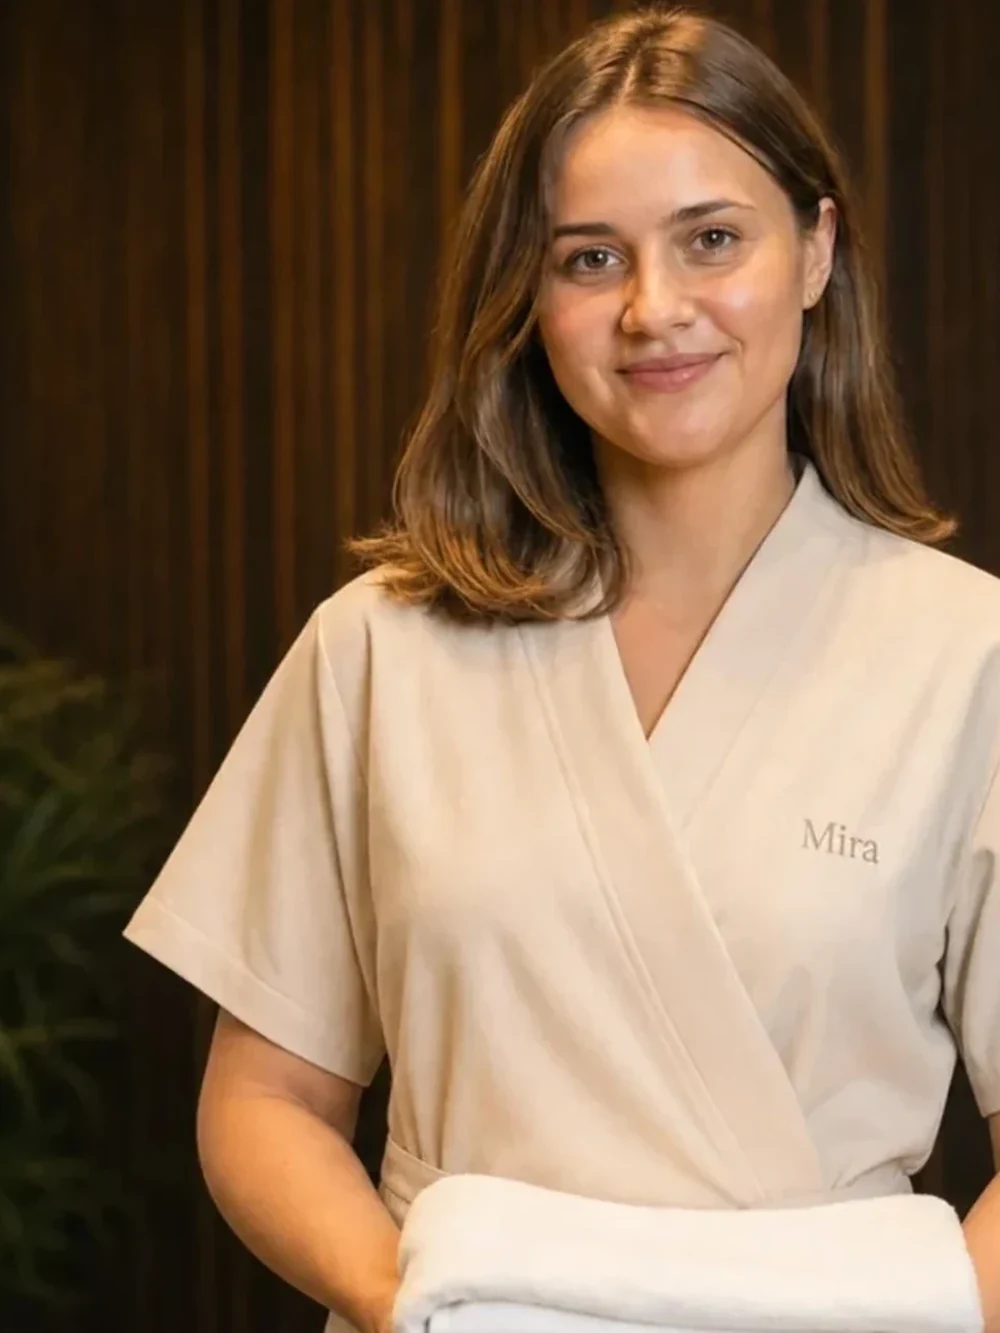
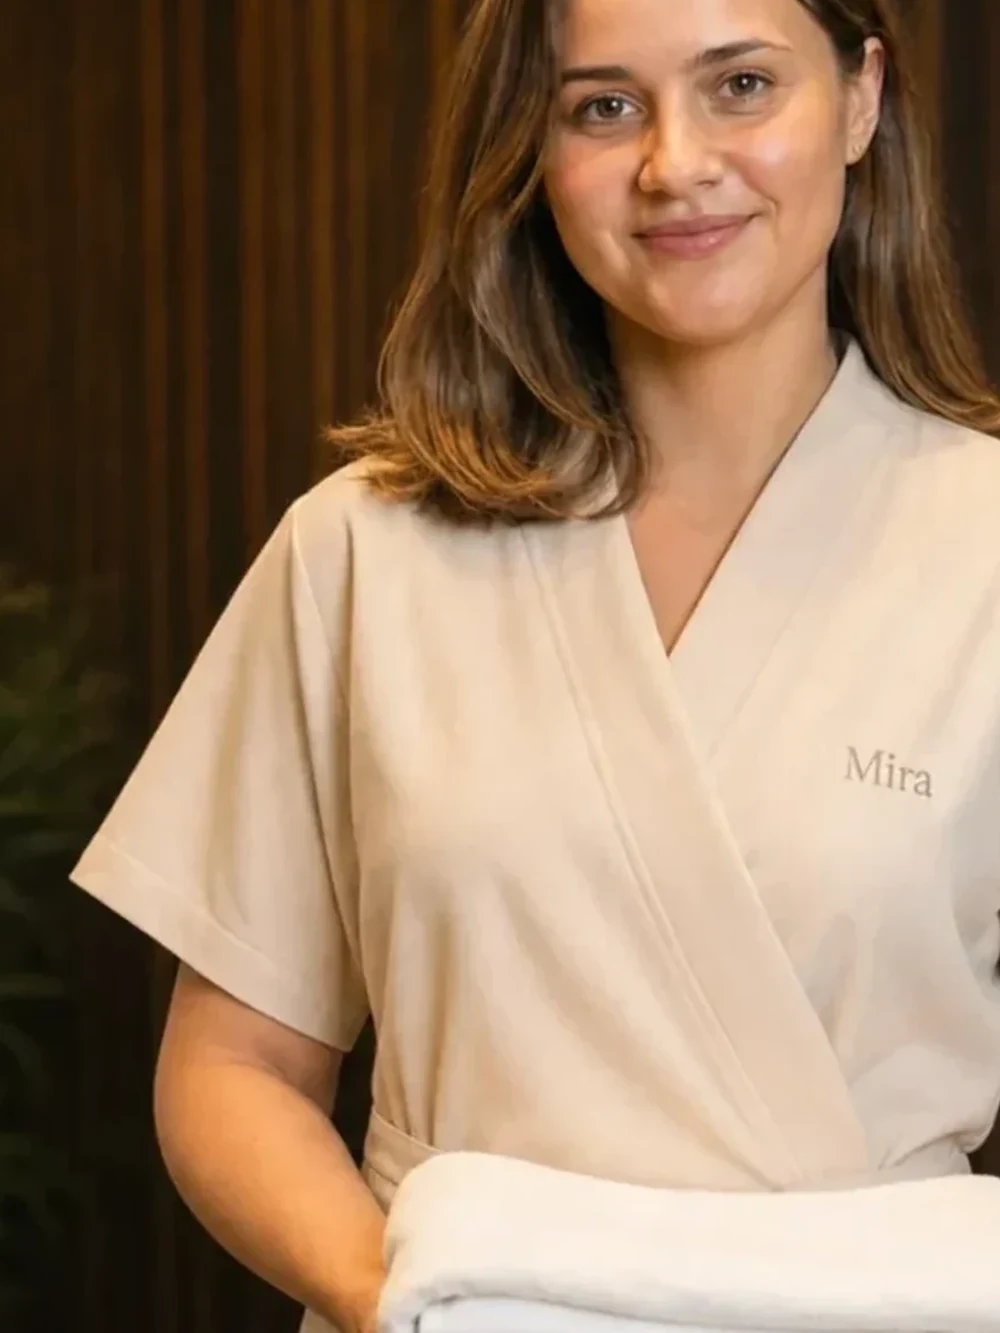
1

diff --git a/static/css/gallery.css b/static/css/gallery.css
@@ -20,8 +20,9 @@
 
 .media-gallery--card-team .media-gallery__img:not(.media-gallery__img--blur),
 .media-gallery--card-service .media-gallery__img:not(.media-gallery__img--blur) {
-  object-position: center top;
-  transform-origin: center top;
+  object-position: center 12%;
+  transform: scale(1.06);
+  transform-origin: center 12%;
 }
 
 .media-gallery--card-team::after {
@@ -175,7 +176,7 @@
   display: inline-flex;
   align-items: center;
   justify-content: center;
-  color: rgba(201, 169, 138, 0.35);
+  color: rgba(14, 12, 18, 0.48);
   outline: none;
   -webkit-tap-highlight-color: transparent;
   transition: color 0.3s ease;
@@ -188,6 +189,7 @@
   border-radius: 50%;
   background: currentColor;
   pointer-events: none;
+  box-shadow: 0 0 0 1px rgba(255, 255, 255, 0.42);
   transition:
     width 0.3s ease,
     height 0.3s ease,
@@ -195,33 +197,47 @@
 }
 
 .media-gallery__dot.is-active {
-  color: var(--color-gold);
+  color: rgba(8, 7, 12, 0.9);
 }
 
 .media-gallery__dot.is-active::after {
   width: 9px;
   height: 9px;
-  box-shadow: 0 0 10px rgba(201, 169, 138, 0.5);
+  box-shadow:
+    0 0 0 1.5px rgba(255, 255, 255, 0.58),
+    0 2px 8px rgba(0, 0, 0, 0.38);
 }
 
 .media-gallery--card-team .media-gallery__dot,
-.media-gallery--detail-team .media-gallery__dot {
-  color: rgba(150, 150, 158, 0.7);
+.media-gallery--card-service .media-gallery__dot,
+.media-gallery--detail-team .media-gallery__dot,
+.media-gallery--detail-service .media-gallery__dot {
+  color: rgba(14, 12, 18, 0.48);
 }
 
 .media-gallery--card-team .media-gallery__dot.is-active,
-.media-gallery--detail-team .media-gallery__dot.is-active {
-  color: rgba(235, 235, 240, 0.95);
+.media-gallery--card-service .media-gallery__dot.is-active,
+.media-gallery--detail-team .media-gallery__dot.is-active,
+.media-gallery--detail-service .media-gallery__dot.is-active {
+  color: rgba(8, 7, 12, 0.9);
 }
 
 .media-gallery--card-team .media-gallery__dot.is-active::after,
-.media-gallery--detail-team .media-gallery__dot.is-active::after {
-  box-shadow: 0 0 8px rgba(200, 200, 210, 0.55);
+.media-gallery--card-service .media-gallery__dot.is-active::after,
+.media-gallery--detail-team .media-gallery__dot.is-active::after,
+.media-gallery--detail-service .media-gallery__dot.is-active::after {
+  box-shadow:
+    0 0 0 1.5px rgba(255, 255, 255, 0.58),
+    0 2px 8px rgba(0, 0, 0, 0.38);
 }
 
 .media-gallery--card-team .media-gallery__dot:focus-visible::after,
-.media-gallery--detail-team .media-gallery__dot:focus-visible::after {
-  box-shadow: 0 0 0 2px rgba(180, 180, 190, 0.7);
+.media-gallery--card-service .media-gallery__dot:focus-visible::after,
+.media-gallery--detail-team .media-gallery__dot:focus-visible::after,
+.media-gallery--detail-service .media-gallery__dot:focus-visible::after {
+  box-shadow:
+    0 0 0 2px rgba(255, 255, 255, 0.65),
+    0 0 0 4px rgba(14, 12, 18, 0.55);
 }
 
 .media-gallery__dot:focus {
@@ -229,7 +245,9 @@
 }
 
 .media-gallery__dot:focus-visible::after {
-  box-shadow: 0 0 0 2px rgba(201, 169, 138, 0.55);
+  box-shadow:
+    0 0 0 2px rgba(255, 255, 255, 0.65),
+    0 0 0 4px rgba(14, 12, 18, 0.55);
 }
 
 .media-gallery__placeholder {

diff --git a/templates/unfold/helpers/userlinks.html b/templates/unfold/helpers/userlinks.html
@@ -1,10 +1,10 @@
 {% load i18n static %}
 
-<div class="bv-admin-userlinks flex items-center ml-auto shrink-0">
-  <nav class="flex flex-wrap items-center justify-end gap-x-4 gap-y-1 text-xs font-semibold tracking-wide">
+<div class="bv-admin-userlinks">
+  <nav class="bv-admin-userlinks__nav" aria-label="Меню користувача">
     {% get_current_language as CURRENT_LANG %}
     <a href="{% url 'admin_toggle_lang' %}"
-       class="bv-admin-userlinks__link min-h-[44px] inline-flex items-center text-font-subtle-light hover:text-font-important-light dark:text-font-subtle-dark dark:hover:text-font-important-dark"
+       class="bv-admin-userlinks__link"
        title="{% if CURRENT_LANG == 'uk' %}Switch to English{% else %}Перейти на українську{% endif %}">
       {% if CURRENT_LANG == 'uk' %}EN{% else %}UA{% endif %}
     </a>
@@ -13,24 +13,23 @@
       <a href="{{ site_url }}"
          target="_blank"
          rel="noopener noreferrer"
-         class="bv-admin-userlinks__link min-h-[44px] inline-flex items-center text-font-subtle-light hover:text-font-important-light dark:text-font-subtle-dark dark:hover:text-font-important-dark">
+         class="bv-admin-userlinks__link">
         {% translate 'View site' %}
       </a>
     {% endif %}
 
     {% if user.has_usable_password %}
       <a href="{% url 'admin:password_change' %}"
-         class="bv-admin-userlinks__link min-h-[44px] inline-flex items-center text-font-subtle-light hover:text-font-important-light dark:text-font-subtle-dark dark:hover:text-font-important-dark">
+         class="bv-admin-userlinks__link">
         {% translate 'Change password' %}
       </a>
     {% endif %}
 
-    <form method="post" action="{% url 'admin:logout' %}" class="inline-flex items-center m-0 p-0">
+    <form method="post" action="{% url 'admin:logout' %}" class="bv-admin-userlinks__logout-form">
       {% csrf_token %}
-      <button type="submit"
-              class="bv-admin-userlinks__logout min-h-[44px] inline-flex items-center gap-1 bg-transparent border-0 p-0 cursor-pointer text-sm font-semibold tracking-wide text-red-400 hover:text-red-300 dark:text-red-400 dark:hover:text-red-300">
+      <button type="submit" class="bv-admin-userlinks__logout">
         {% translate 'Log out' %}
-        <span class="material-symbols-outlined text-[16px] leading-none" aria-hidden="true">logout</span>
+        <span class="bv-admin-userlinks__logout-icon material-symbols-outlined" aria-hidden="true">logout</span>
       </button>
     </form>
   </nav>

diff --git a/static/css/admin-header.css b/static/css/admin-header.css
@@ -1,11 +1,70 @@
-.bv-admin-userlinks nav {
-  row-gap: 0;
+.bv-admin-userlinks {
+  margin-left: auto;
+  flex-shrink: 0;
 }
 
-.bv-admin-userlinks__link,
-.bv-admin-userlinks__logout {
+.bv-admin-userlinks__nav {
+  display: flex;
+  flex-wrap: wrap;
+  align-items: center;
+  justify-content: flex-end;
+  gap: 0.35rem 1.35rem;
+  font-size: 0.75rem;
+  font-weight: 600;
+  letter-spacing: 0.04em;
+}
+
+.bv-admin-userlinks__link {
+  display: inline-flex;
+  align-items: center;
+  min-height: 44px;
+  padding: 0 0.15rem;
+  color: rgba(148, 163, 184, 0.95);
   text-decoration: none;
+  white-space: nowrap;
   -webkit-tap-highlight-color: transparent;
+  transition: color 0.2s ease;
+}
+
+.bv-admin-userlinks__link:hover,
+.bv-admin-userlinks__link:focus-visible {
+  color: rgba(248, 250, 252, 0.95);
+}
+
+.bv-admin-userlinks__logout-form {
+  display: inline-flex;
+  align-items: center;
+  margin: 0;
+  padding: 0;
+}
+
+.bv-admin-userlinks__logout {
+  display: inline-flex;
+  align-items: center;
+  gap: 0.35rem;
+  min-height: 44px;
+  padding: 0 0.15rem;
+  border: 0;
+  background: transparent;
+  color: #f87171;
+  font: inherit;
+  font-size: 0.75rem;
+  font-weight: 600;
+  letter-spacing: 0.04em;
+  cursor: pointer;
+  white-space: nowrap;
+  -webkit-tap-highlight-color: transparent;
+  transition: color 0.2s ease;
+}
+
+.bv-admin-userlinks__logout:hover,
+.bv-admin-userlinks__logout:focus-visible {
+  color: #fca5a5;
+}
+
+.bv-admin-userlinks__logout-icon {
+  font-size: 1rem;
+  line-height: 1;
 }
 
 .bv-admin-userlinks__link:focus-visible,
@@ -16,12 +75,19 @@
 }
 
 @media (max-width: 640px) {
-  .bv-admin-userlinks nav {
-    gap: 0.65rem 0.85rem;
+  .bv-admin-userlinks__nav {
+    gap: 0.3rem 1rem;
   }
 
   .bv-admin-userlinks__link,
   .bv-admin-userlinks__logout {
     min-height: 40px;
+  }
+}
+
+@media (max-width: 480px) {
+  .bv-admin-userlinks__nav {
+    gap: 0.25rem 0.75rem;
+    font-size: 0.6875rem;
   }
 }

diff --git a/static/css/services.css b/static/css/services.css
@@ -74,15 +74,34 @@
 .service-detail__content {
   max-width: 760px;
   line-height: 1.75;
-  color: rgba(240, 233, 224, 0.65);
+  color: rgba(240, 233, 224, 0.62);
   margin-bottom: clamp(40px, 6vw, 64px);
 }
 
-.service-detail__content h2 {
+.service-detail__content h2,
+.service-detail__content h3 {
   font-family: var(--font-heading);
-  font-size: clamp(24px, 3vw, 36px);
-  margin: 48px 0 16px;
   color: var(--color-text);
+  letter-spacing: -0.01em;
+  line-height: 1.25;
+}
+
+.service-detail__content h2 {
+  font-size: clamp(24px, 3vw, 36px);
+  font-weight: 600;
+  margin: 48px 0 16px;
+}
+
+.service-detail__content h3 {
+  font-size: clamp(20px, 2.4vw, 28px);
+  font-weight: 600;
+  margin: 36px 0 12px;
+  color: rgba(240, 233, 224, 0.92);
+}
+
+.service-detail__content h2:first-child,
+.service-detail__content h3:first-child {
+  margin-top: 0;
 }
 
 .service-detail__team {
@@ -123,6 +142,10 @@
 
   .service-detail__content h2 {
     margin-top: 32px;
+  }
+
+  .service-detail__content h3 {
+    margin-top: 28px;
   }
 
   .service-detail__aside .btn--primary {

diff --git a/static/css/blog.css b/static/css/blog.css
@@ -64,7 +64,43 @@
 .blog-article__content {
   max-width: 720px;
   line-height: 1.8;
-  color: rgba(240, 233, 224, 0.7);
+  color: rgba(240, 233, 224, 0.62);
+}
+
+.blog-article__content h2,
+.blog-article__content h3,
+.blog-article__content h4 {
+  font-family: var(--font-heading);
+  letter-spacing: -0.01em;
+  line-height: 1.25;
+}
+
+.blog-article__content h2 {
+  font-size: clamp(22px, 2.8vw, 32px);
+  font-weight: 600;
+  color: var(--color-text);
+  margin: 2.5em 0 0.85em;
+}
+
+.blog-article__content h3 {
+  font-size: clamp(19px, 2.2vw, 26px);
+  font-weight: 600;
+  color: rgba(240, 233, 224, 0.94);
+  margin: 2em 0 0.75em;
+}
+
+.blog-article__content h4 {
+  font-size: clamp(17px, 2vw, 22px);
+  font-weight: 600;
+  color: var(--color-gold);
+  margin: 1.75em 0 0.65em;
+  letter-spacing: 0.02em;
+}
+
+.blog-article__content h2:first-child,
+.blog-article__content h3:first-child,
+.blog-article__content h4:first-child {
+  margin-top: 0;
 }
 
 .blog-article__content p {

diff --git a/templates/base.html b/templates/base.html
@@ -35,7 +35,7 @@
   <link rel="stylesheet" href="{% static 'css/logo-nav.css' %}">
   <link rel="stylesheet" href="{% static 'css/modal.css' %}">
   <link rel="stylesheet" href="{% static 'css/mobile-nav.css' %}">
-  <link rel="stylesheet" href="{% static 'css/gallery.css' %}?v=6">
+  <link rel="stylesheet" href="{% static 'css/gallery.css' %}?v=8">
   {% block extra_css %}{% endblock %}
   {% include 'partials/schemas/local_business.html' %}
   {% if schema_website %}{% include 'partials/schemas/website.html' %}{% endif %}

diff --git a/apps/core/unfold_config.py b/apps/core/unfold_config.py
@@ -9,12 +9,29 @@ UNFOLD = {
     'SITE_URL': '/',
     'SITE_ICON': lambda request: static('img/favicon.svg'),
     'SITE_LOGO': lambda request: static('img/favicon.svg'),
+    'SITE_FAVICONS': [
+        {
+            'rel': 'icon',
+            'type': 'image/svg+xml',
+            'href': lambda request: static('img/favicon.svg'),
+        },
+        {
+            'rel': 'icon',
+            'type': 'image/png',
+            'sizes': '180x180',
+            'href': lambda request: static('img/favicon.png'),
+        },
+        {
+            'rel': 'apple-touch-icon',
+            'href': lambda request: static('img/favicon.png'),
+        },
+    ],
     'SITE_SYMBOL': 'spa',
     'THEME': 'dark',
     'SHOW_HISTORY': True,
     'SHOW_VIEW_ON_SITE': True,
     'STYLES': [
-        lambda request: static('css/admin-header.css'),
+        lambda request: static('css/admin-header.css?v=2'),
     ],
     'COLORS': {
         'primary': {

diff --git a/apps/core/templatetags/media_urls.py b/apps/core/templatetags/media_urls.py
@@ -6,9 +6,9 @@ from django.conf import settings
 register = template.Library()
 
 CARD_TRANSFORMS = {
-    'card-team': 'c_fill,g_face,h_800,w_600,q_auto,f_auto',
+    'card-team': 'c_fill,g_face,y_0.08,h_800,w_600,q_auto,f_auto',
     'card-service': 'c_fill,g_auto,h_1067,w_800,q_auto,f_auto',
-    'detail-team': 'c_fill,g_face,h_800,w_600,q_auto,f_auto',
+    'detail-team': 'c_fill,g_face,y_0.08,h_800,w_600,q_auto,f_auto',
     'detail-service': 'c_fill,g_auto,h_800,w_1200,q_auto,f_auto',
 }
 
